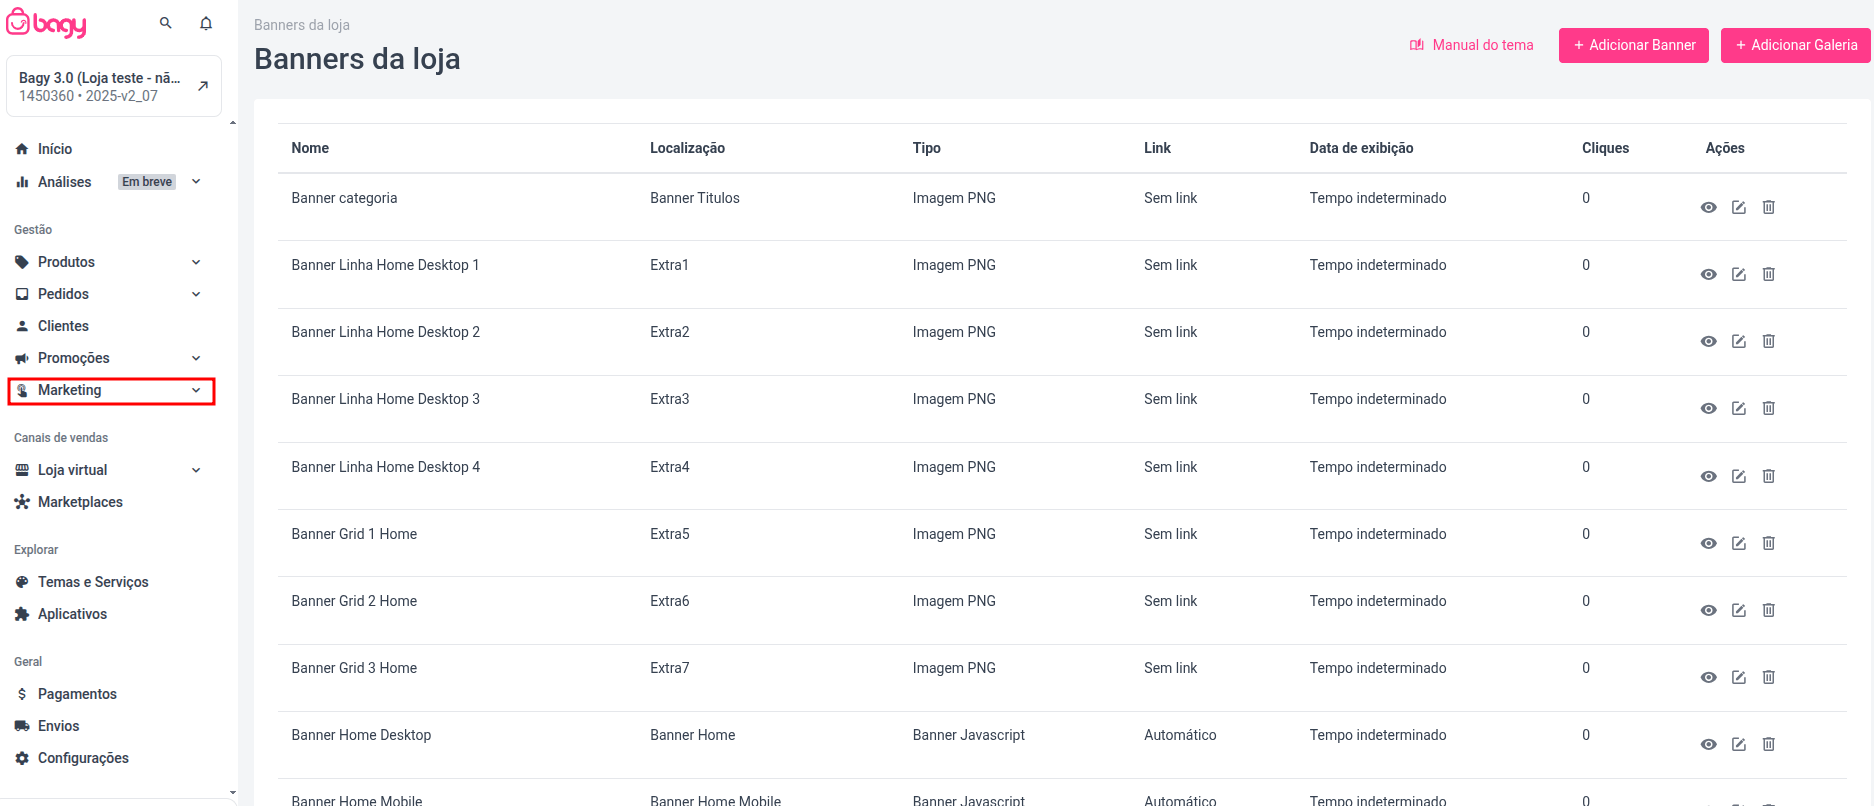
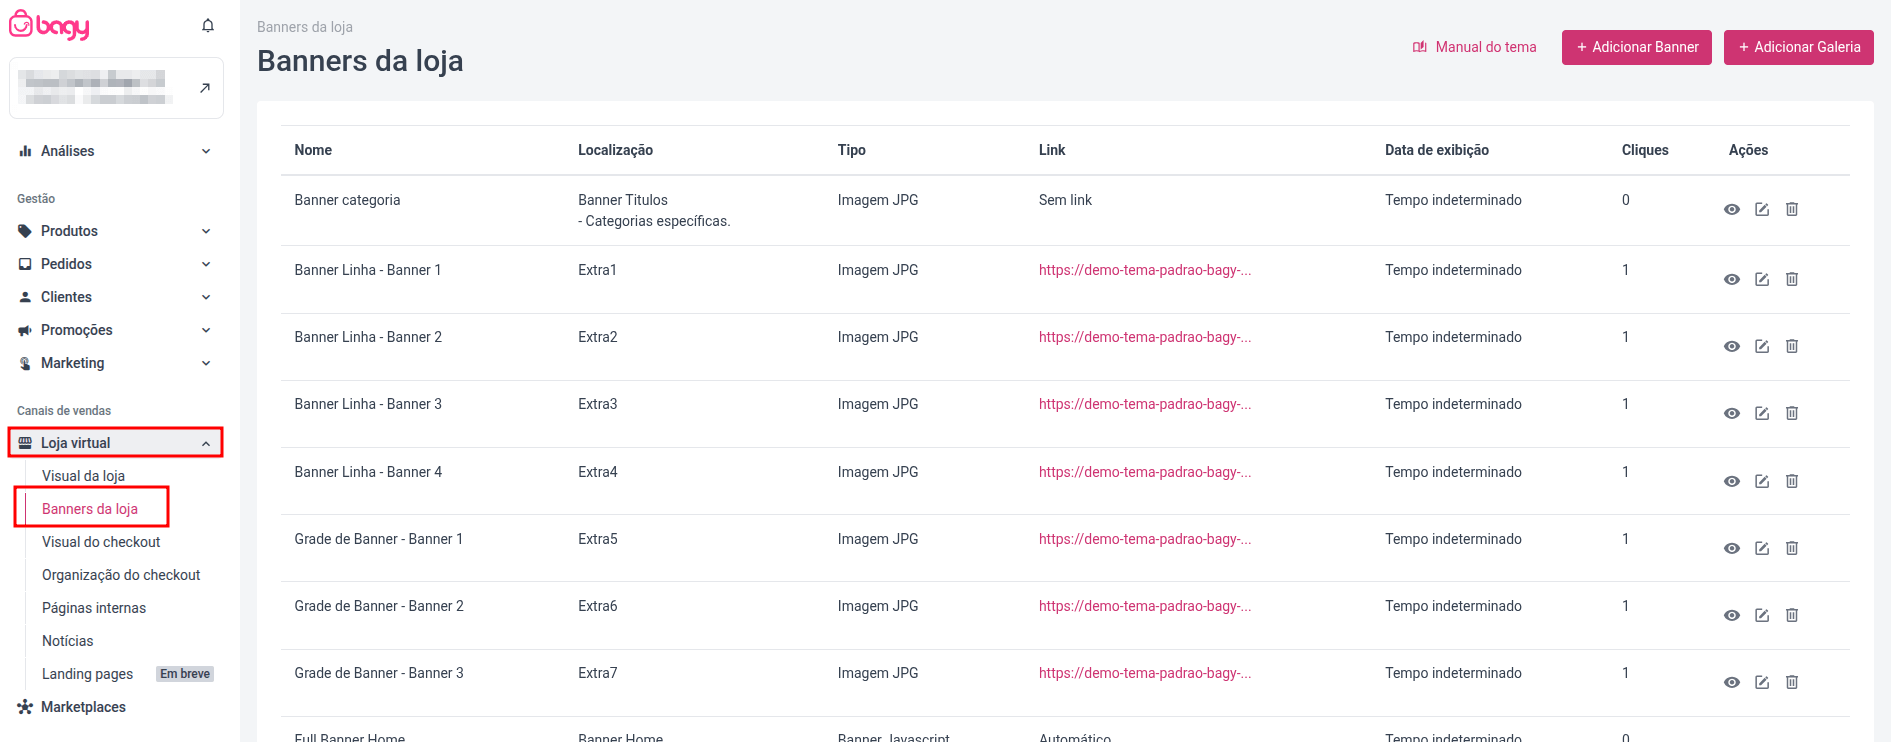
Ajustes prints e caminhos

diff --git a/.vitepress/config.ts b/.vitepress/config.ts
@@ -12,6 +12,7 @@ export default defineConfig({
   lang: 'pt-BR',
   cleanUrls: true,
   base: process.env.VITEPRESS_BASE || '/',
+  head: [['link', { rel: 'icon', href: '/bagy-favicon.png' }]],
   themeConfig: {
     logo: {
       light: '/logo.svg',

diff --git a/docs/tema-padrao-3-0/apresentacao/instalacao.md b/docs/tema-padrao-3-0/apresentacao/instalacao.md
@@ -1,6 +1,6 @@
 # Instalação
 
-Para encontrar os temas adquiridos e/ou instalados em sua loja, basta acessar no menu lateral esquerdo,  em **Configurações > Minha loja > Editar layout**. Nessa seção você irá encontrar todos os temas já instalados na sua loja, visualizar qual tema está publicado e quais estão disponíveis para publicação, visualizar uma prévia de um dos temas que possui, e ainda fazer edições nos seus temas. Esses últimos pontos veremos mais adiante.
+Para encontrar os temas adquiridos e/ou instalados em sua loja, basta acessar no menu lateral esquerdo,  em **Configurações > Minha loja > Editar layout** ou em **Loja virtual > Visual da loja**. Nessa seção você irá encontrar todos os temas já instalados na sua loja, visualizar qual tema está publicado e quais estão disponíveis para publicação, visualizar uma prévia de um dos temas que possui, e ainda fazer edições nos seus temas. Esses últimos pontos veremos mais adiante.
 
 Para publicar um tema presente em sua lista de temas instalados, basta localizar o tema desejado e clicar no botão _**Publicar**_. O processo a partir desse ponto será automático. O tema estará publicado em questões de minutos, mas pode demorar até 1 hora para que todas as página sejam visualizadas com o nosso estilo.
 

diff --git a/docs/tema-padrao-3-0/configuracoes/aparencia-do-checkout.md b/docs/tema-padrao-3-0/configuracoes/aparencia-do-checkout.md
@@ -2,6 +2,10 @@
 
 As páginas de Carrinho de Compras, Checkout e Nova Central (do cliente) não permitem edições HTML, ou seja, não é possível personalizar a estrutura de ambas as páginas, mas é possível editar as cores das mesmas pelo painel da plataforma.
 
-Para isso acesse **Configurações > Minha loja > Aparência do carrinho**. Neste local você encontrará todas as cores passíveis de edição, e ao lado direito em "Pré-visualização" é possível ver quais cores estão sendo alteradas e como está ficando a página.
+Para isso acesse **Configurações > Minha loja > Aparência do carrinho** ou **Loja virtual > Visual do checkout**. Neste local você encontrará todas as cores passíveis de edição, e ao lado direito em "Pré-visualização" é possível ver quais cores estão sendo alteradas e como está ficando a página.
 
 ![image](/tema-padrao-3-0/configuracoes-aparencia-carrinho.png)
+
+::: info **Observação**
+Ao acessar **Aparência do carrinho**, caso exiba uma Landing Page com algumas informações, basta clicar no "X"que fica no topo para fechá-la e poder editar as cores
+:::

diff --git a/docs/tema-padrao-3-0/edicao-no-codigo/edicao-no-codigo-do-tema.md b/docs/tema-padrao-3-0/edicao-no-codigo/edicao-no-codigo-do-tema.md
@@ -10,7 +10,7 @@ Nós criamos os temas com diversas personalizações através do painel do tema 
 
 Para fazer qualquer modificação mais complexa no seu tema será necessário que ele não esteja publicado. Para isso você não precisa tirar a loja do ar,  basta duplicar o tema publicado. Caso o seu tema não esteja publicado ainda, você poderá fazer as alterações sem a necessidade de duplicá-lo.
 
-Para isso acesse no menu lateral esquerdo,  em **Configurações > Minha loja > Editar layout**. No seu tema clique em **Mais opções** e sem seguida clique em **Duplicar tema**. Você poderá editar o nome depois, caso queira.
+Para isso acesse no menu lateral esquerdo,  em **Configurações > Minha loja > Editar layout** ou **Loja virtual > Visual da loja**. No seu tema clique em **Mais opções** e sem seguida clique em **Duplicar tema**. Você poderá editar o nome depois, caso queira.
 
 ::: info **Dica**
 Apesar de não ser necessário duplicar para editar o código quando ele não está publicado, recomendamos que o faça. Assim, caso tiver algum problema você terá uma cópia de segurança.

diff --git a/docs/tema-padrao-3-0/configuracoes/imagens-padroes.md b/docs/tema-padrao-3-0/configuracoes/imagens-padroes.md
@@ -1,6 +1,6 @@
 # Imagens Padrões
 
-Alguns elementos presentes no layout devem ser vinculados através da plataforma. Para personalizar tais imagens é muito simples, basta acessar no menu lateral esquerdo,  em **Configurações > Minha loja > Editar layout,** no tema publicado clique em _**Imagens padrões**_. Através dela, é possível inserir ou alterar imagens como o logo que será exibida na sua loja, além do favicon, selos de destaque, lançamento, adicional, frete grátis entre outros.
+Alguns elementos presentes no layout devem ser vinculados através da plataforma. Para personalizar tais imagens é muito simples, basta acessar no menu lateral esquerdo,  em **Configurações > Minha loja > Editar layout,** ou em **Loja virtual > Visual da loja** no tema publicado clique em _**Imagens padrões**_. Através dela, é possível inserir ou alterar imagens como o logo que será exibida na sua loja, além do favicon, selos de destaque, lançamento, adicional, frete grátis entre outros.
 
 ![image](/tema-padrao-3-0/configuracoes-imagens-padroes-2.png)
 

diff --git a/docs/tema-padrao-3-0/configuracoes/paginas-extras.md b/docs/tema-padrao-3-0/configuracoes/paginas-extras.md
@@ -1,6 +1,6 @@
 # Páginas Extras
 
-Toda loja conta com páginas relacionadas a operação e a empresa. São páginas com conteúdo fixo, diferente da página principal, página de produtos, categorias, carrinho e painel do cliente. Algumas páginas extras comuns em lojas são: **Sobre a Empresa, Segurança, Como Comprar, Pagamento e Envio**. Essas páginas podem ser configuradas acessando no menu lateral esquerdo,  em **Configurações > Minha loja > Páginas internas.**
+Toda loja conta com páginas relacionadas a operação e a empresa. São páginas com conteúdo fixo, diferente da página principal, página de produtos, categorias, carrinho e painel do cliente. Algumas páginas extras comuns em lojas são: **Sobre a Empresa, Segurança, Como Comprar, Pagamento e Envio**. Essas páginas podem ser configuradas acessando no menu lateral esquerdo,  em **Configurações > Minha loja > Páginas internas** ou em **Loja virtual > Páginas internas**.
 
 ![image](/tema-padrao-3-0/configuracoes-paginas.png)
 

diff --git a/docs/tema-padrao-3-0/banners/localizacao-na-plataforma.md b/docs/tema-padrao-3-0/banners/localizacao-na-plataforma.md
@@ -1,6 +1,6 @@
 # Localização na Plataforma
 
-Um elemento que chama muita atenção nas lojas são os banners. Eles podem possuir diversões tamanhos e composições, e agradam por trazer um trabalho gráfico mais elaborado. Este tema utiliza-os em posições estratégicas. Os banners podem ser cadastrados no painel administrativo acessando _**Marketing > Engajamento > Banners**._
+Um elemento que chama muita atenção nas lojas são os banners. Eles podem possuir diversões tamanhos e composições, e agradam por trazer um trabalho gráfico mais elaborado. Este tema utiliza-os em posições estratégicas. Os banners podem ser cadastrados no painel administrativo acessando _**Loja virtual > Banners da loja**._
 
 ::: info Lembrando que:
 Você pode escolher outras posições de banners para exibir em sua loja. O que está documentado aqui é a base que utilizamos caso queira se basear nela.

diff --git a/docs/tema-padrao-3-0/painel-do-tema/pagina-inicial/marcas.md b/docs/tema-padrao-3-0/painel-do-tema/pagina-inicial/marcas.md
@@ -29,7 +29,7 @@ Sua principal função é garantir a acessibilidade para utilizadores com defici
 Deve ser cadastrado para que se tenha acesso a página da marca e os seus produtos.
 
 ::: info Mais
-Para cadastrar as marcas no painel da plataforma e ter o seu link acesse: **Produtos > Marcas e Fabricantes.** Para maiores detalhes [clique aqui](https://basedeconhecimento.bagy.com.br/hc/pt-br/articles/44774623772180-Cadastrando-marcas-e-fabricantes-na-sua-loja-Bagy-3-0).
+Para cadastrar as marcas no painel da plataforma e ter o seu link acesse: **Produtos > Marcas**. Para maiores detalhes [clique aqui](https://basedeconhecimento.bagy.com.br/hc/pt-br/articles/44774623772180-Cadastrando-marcas-e-fabricantes-na-sua-loja-Bagy-3-0).
 :::
 
 Lembrando que é possível cadastrar no **máximo 10** marcas.

diff --git a/docs/tema-padrao-3-0/painel-do-tema/pagina-de-produto/produto.md b/docs/tema-padrao-3-0/painel-do-tema/pagina-de-produto/produto.md
@@ -23,7 +23,7 @@ Em **Blocos da seção** temos:
 ![image](/tema-padrao-3-0/painel-do-tema-pagina-produto-produto-2.png)
 
 ::: danger **Atenção:**
-Após escolher a opção de exibição do preço em destaque do produto, o mesmo deve acessar no painel da plataforma em **Marketing > Trafego > XML de produtos** e escolher a opção de acordo para que não tenha problemas com os mecanismos de buscas e seja penalizado.
+Após escolher a opção de exibição do preço em destaque do produto, o mesmo deve acessar no painel da plataforma em **Marketing > XML de produtos** e escolher a opção de acordo para que não tenha problemas com os mecanismos de buscas e seja penalizado.
 :::
 
 ![image](/tema-padrao-3-0/painel-do-tema-pagina-produto-produto-3.png)

diff --git a/docs/tema-padrao-3-0/painel-do-tema/painel-modernizado.md b/docs/tema-padrao-3-0/painel-do-tema/painel-modernizado.md
@@ -20,7 +20,7 @@ Também é possível **adicionar** e **remover seções** não fixas pelo editor
 
 ***
 
-Cada uma das seções desse painel estarão disponíveis dentro do painel de edição do tema. Para isso basta acessar _**Configurações > Editar Layout**_ e no tema desejado clicar em _**Editar Tema**_.
+Cada uma das seções desse painel estarão disponíveis dentro do painel de edição do tema. Para isso basta acessar _**Configurações > Editar Layout**_ ou em _**Loja virtual > Visual da loja**_ e no tema desejado clicar em _**Editar Tema**_.
 
 A opção de **Editar tema** será exibida nos temas que estejam atualmente publicados e também nos temas instalados e não publicados.
 

diff --git a/docs/tema-padrao-3-0/painel-do-tema/pagina-de-catalogo/principal-da-categoria.md b/docs/tema-padrao-3-0/painel-do-tema/pagina-de-catalogo/principal-da-categoria.md
@@ -32,5 +32,5 @@ Menu de filtro de preço De-Até
 ![image](/tema-padrao-3-0/painel-do-tema-pagina-catalogo-5.png)
 
 ::: info **Vale lembrar que:**
-Ao desabilitar a opção de exibir o menu de filtro, para que seja exibida a página de catálogo completa, você pode configurar a quantidade de colunas e escolher a quantidade de produtos por página, indo em **Configurações > Produto >  Geral > Estrutura**
+Você pode configurar a quantidade de produtos exibidos por página, indo em **Configurações > Produto >  Geral > Estrutura > Quantidade de produtos por página (catálogo e busca)**
 :::

diff --git a/docs/tema-padrao-3-0/painel-do-tema/pagina-inicial/full-banner.md b/docs/tema-padrao-3-0/painel-do-tema/pagina-inicial/full-banner.md
@@ -17,7 +17,7 @@ Exibição versão Mobile:
 ![image](/tema-padrao-3-0/painel-do-tema-pagina-inicial-full-banner-3.png)
 
 ::: info **Vale lembrar que:**
-O cadastro dos banners é feito dentro do painel da plataforma, no menu de _**Marketing > Engajamento > Banners.**_ \
+O cadastro dos banners é feito dentro do painel da plataforma, no menu de _**Loja virtual > Banners da loja**_ \
 Algumas configurações de efeitos configuradas através da plataforma junto ao cadastro do banner não serão refletidas no tema.
 :::
 
